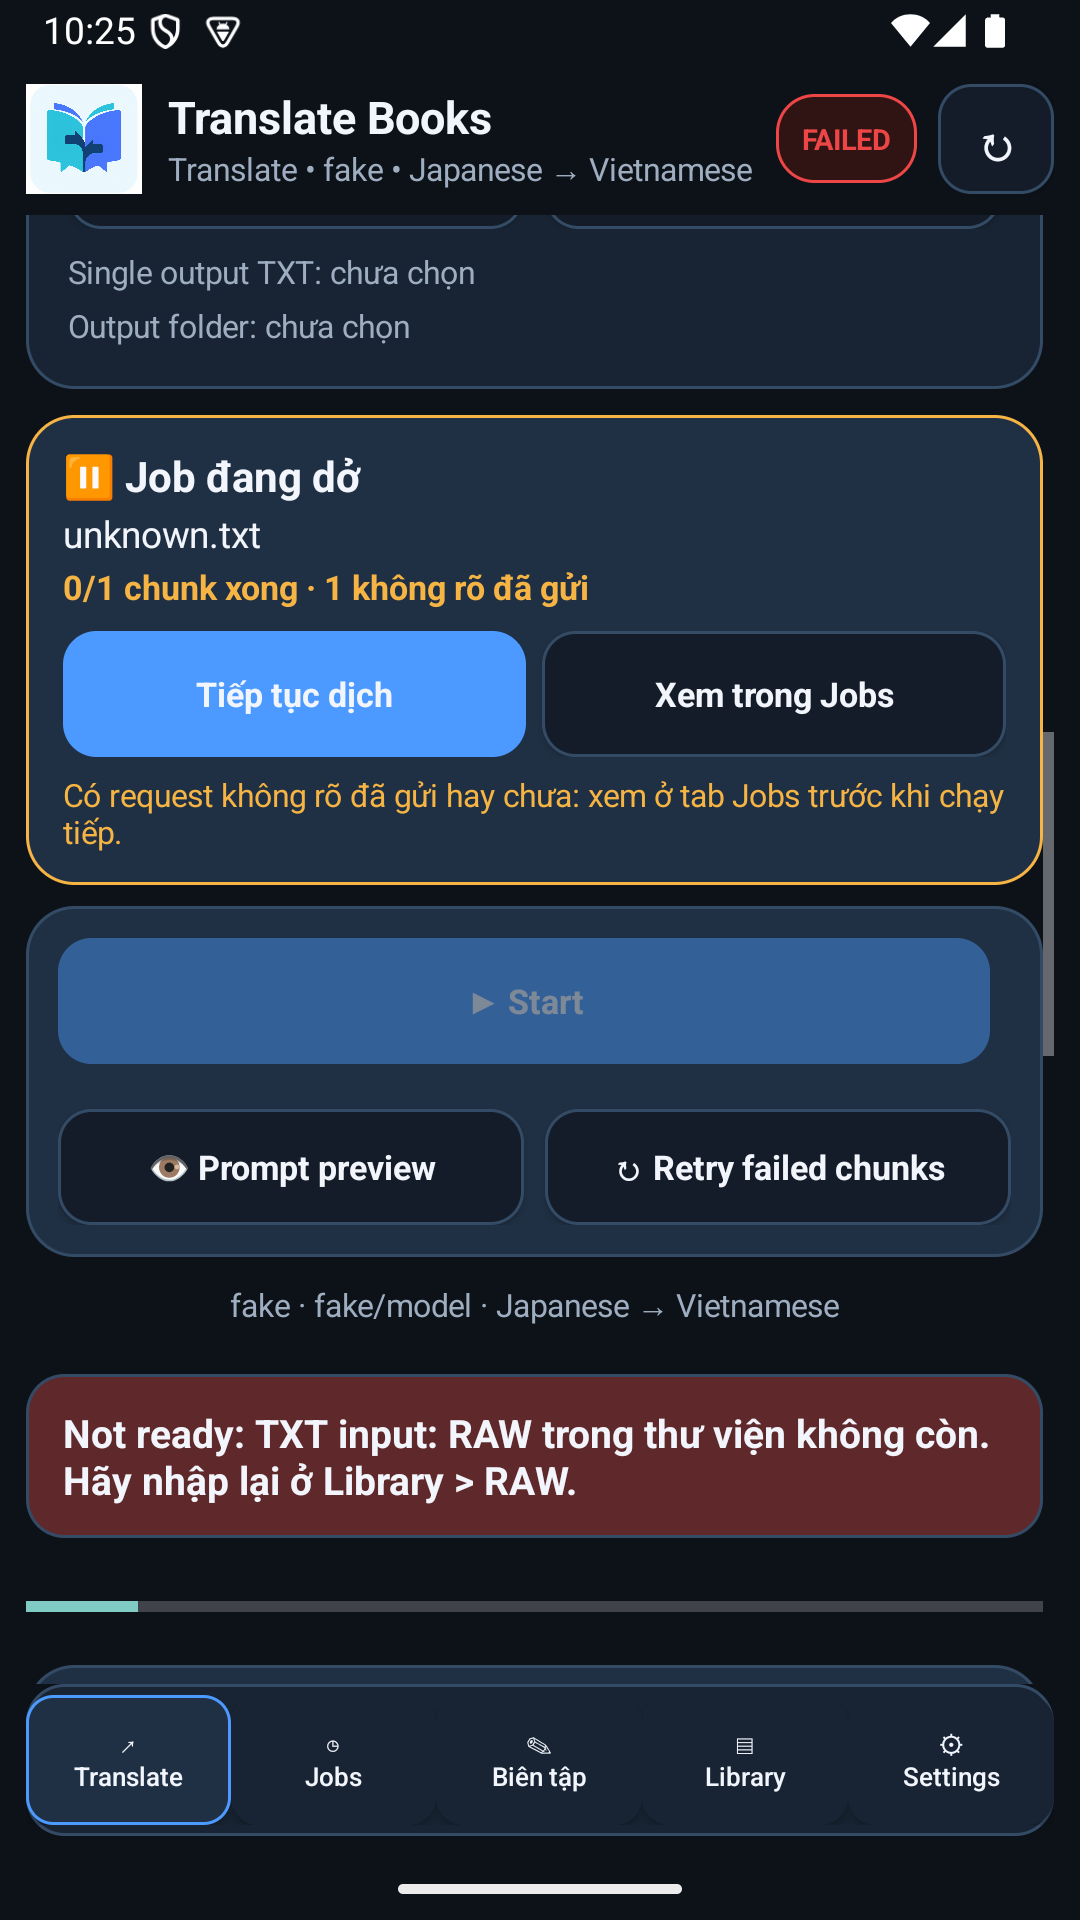
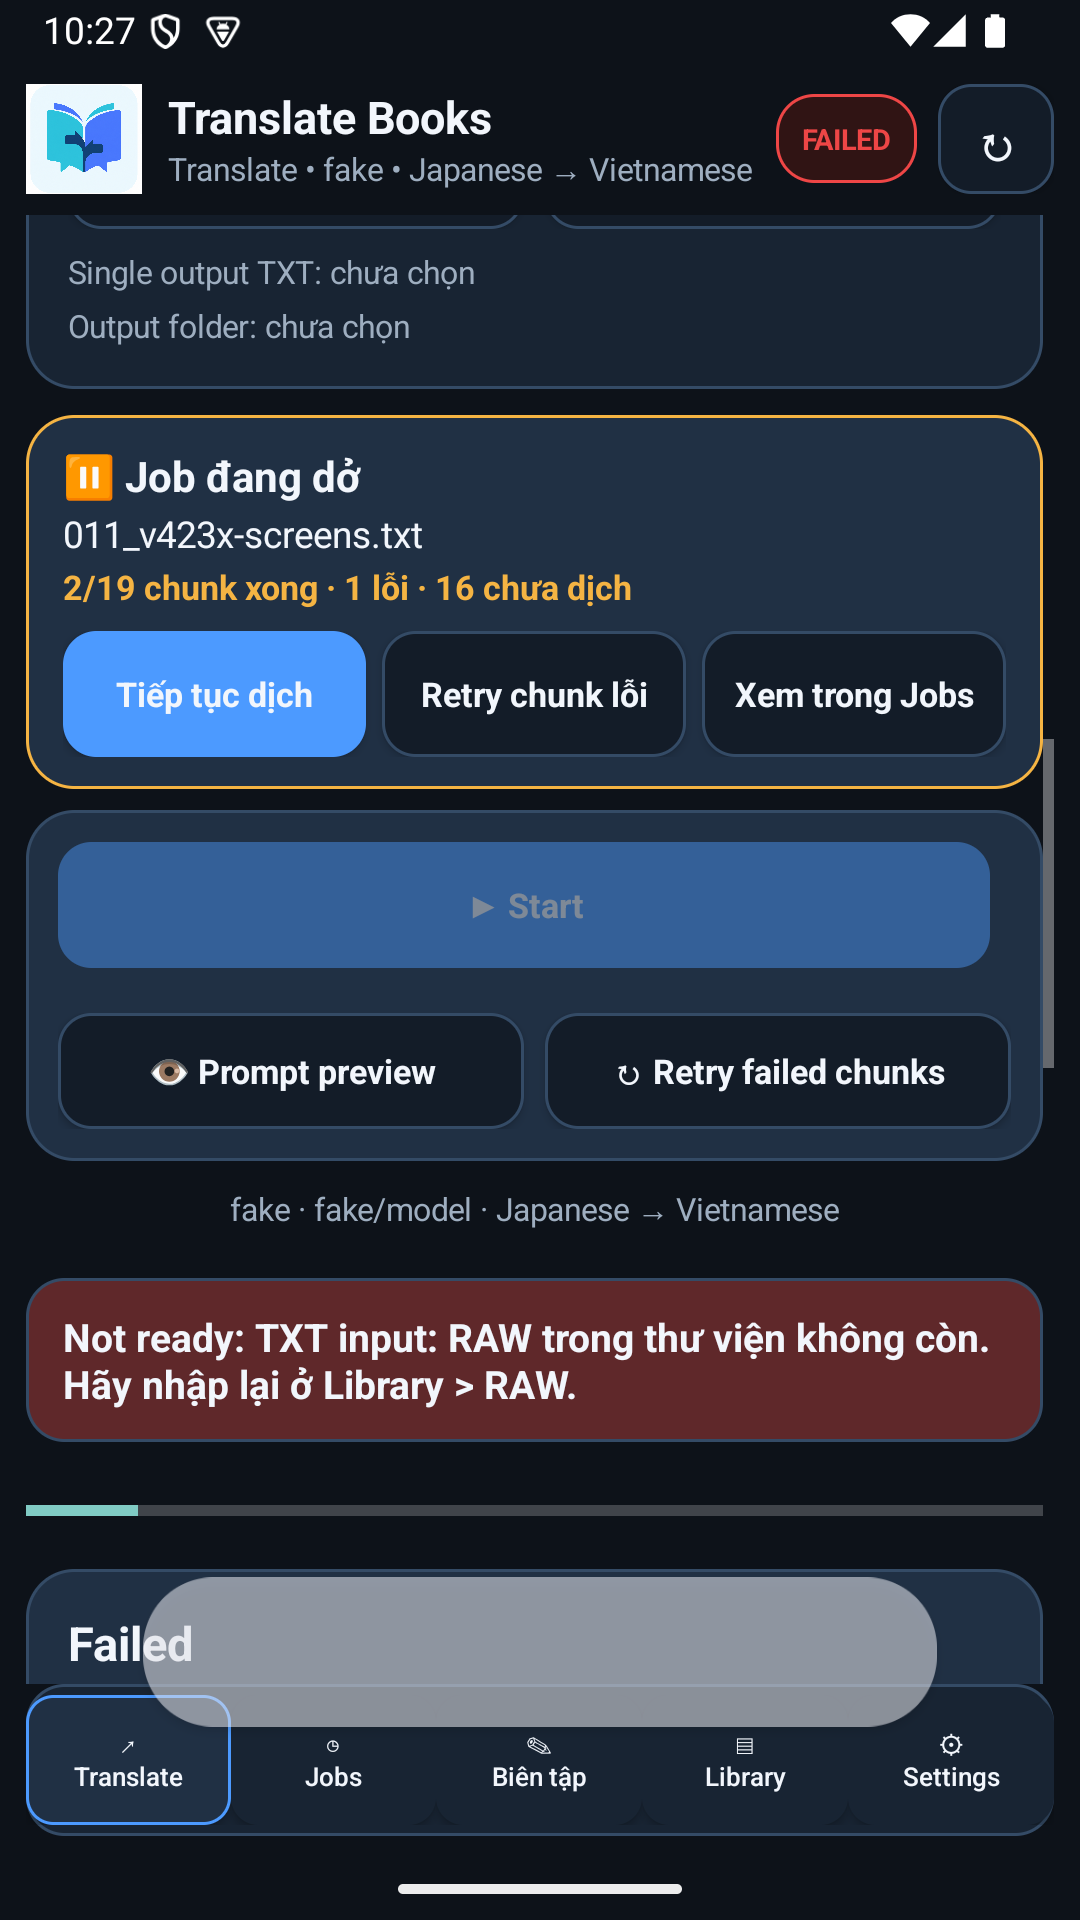
docs(release): v4.23 dev.6 resume fix regression, emulator QA 188 PASS / 16 SKIP / 0 FAIL and screenshots

diff --git a/artifacts/qa/v4.23-dev6-20261018/QA_REPORT.md b/artifacts/qa/v4.23-dev6-20261018/QA_REPORT.md
@@ -1,0 +1,44 @@
+# v4.23 — bản dev `4.23-dev.6` (code 281): sửa lỗi Resume sau Retry
+
+Ngày 2026-10-18, nhánh `feature/v4.23`. Yêu cầu: `docs/V423_RESUME_FIX_WORK_REQUEST.md` (owner chọn R1 mặc định). Provider giả, USD 0. Chỉ emulator-5554; điện thoại `15e84958` không bị chạm (vẫn `4.23-dev.5`).
+
+## 1. Bản dev
+| Mục | Giá trị |
+|---|---|
+| Bản | `4.23-dev.6` / code 281, event `build-20261018-221315`, source `f8de53a7` |
[1 lines of base64/hex data omitted]
+| Source ZIP | `D73558A6…5DF0D8`, trùng ZIP `git archive` của `f8de53a7` (hồi quy) |
+| APK test | `v423-dev6-test3-20261018`, `948E0755…6F2C0D` (chỉ khác mã androidTest; test hai lần đầu `6EE26140…`, `01B63E63…` đã thay) |
+
+## 2. Tái hiện (T1) trước khi sửa
+`T1` trên bản dev.5: job 15 chunk, chunk 2 lỗi xác thực, Retry. Kết quả FAIL: `done/error/pending = 2/0/13` (Retry chỉ chạy lại chunk 2, 13 chunk còn `pending`; job bị đánh `FAILED_INTEGRITY_CHECK` và app phát `done`). Log: `device/T1-FAIL-on-dev5.txt`.
+
+## 3. Sửa
+- **R1:** Retry chunk lỗi xong thì dịch tiếp phần còn lại trong cùng lượt (`translateJob` bỏ qua chunk xong; vẫn áp trần chi phí). Chỉ `finishJob` khi mọi chunk xong. Retry một chunk theo yêu cầu (`ACTION_RETRY_CHUNK`) mà còn chunk chưa dịch thì job `paused` với câu "Đã retry chunk n … còn m chunk chưa dịch". Lỗi giữa chừng ghi "— còn m chunk chưa dịch".
+- **R2:** job chỉ thiếu chunk (kiểm toàn vẹn chỉ có `INCOMPLETE_CHUNK`, kể cả `BLANK_OUTPUT` của chính chunk đó) thành `PAUSED`, không còn `FAILED_INTEGRITY_CHECK`.
+- **R3:** màn Dịch có thẻ **"Job đang dở"** (tên tệp, "x/y chunk xong · z lỗi · m chưa dịch", nút Tiếp tục dịch / Retry chunk lỗi / Xem trong Jobs; Tiếp tục tắt khi có request không rõ đã gửi). Bấm **Start** với tệp (hoặc chương trong tổ hợp) có job dở cùng `input_hash`: hỏi "Tiếp tục job cũ / Dịch lại từ đầu / Hủy". Tiếp tục: không tạo job mới, dịch phần còn lại bằng cấu hình riêng của job; chương khác chạy mới. "Resume" khi không có gì chạy không còn phát `paused`.
+- **R4:** mọi nhánh không làm gì (đã hoàn tất, không có chunk lỗi, Resume khi không chạy, lỗi, tạm dừng) hiện toast kèm đúng câu của dịch vụ, trên mọi tab; log `resume_decision` (job, action, branch, số chunk), không có key hay nội dung sách.
+- Rà họ lỗi: `finishJob` chỉ còn ở hai chỗ hợp lệ (mọi chunk xong); các chỗ phát `done` khi còn chunk: retry (đã sửa). Nhánh chia chunk khi vượt context: có T5.
+
+## 4. Hồi quy archive sạch (`f8de53a7`)
+Engine 742 / 1 SKIP; app debug, release, benchmark 569 mỗi biến thể / 5 SKIP, 0 FAIL; lint 0 lỗi / 65 cảnh báo; AndroidTest compile PASS. Test host mới `ResumePromptTest` (6): câu hỏi, chọn job theo hash (job không rõ đã gửi không được tự tiếp tục), JSON, kiểm toàn vẹn chỉ-thiếu-chunk. Editorial: `git diff 5d81061f -- editorial-engine 'app/.../Editorial*'` rỗng.
+
+## 5. QA thiết bị (emulator, provider giả)
+204 phát hiện / **188 PASS / 16 SKIP / 0 FAIL** / 0 INCOMPLETE (frozen 117/116/1, chunk 27/21/6, product 15/15/0, v4.22 13/6/7, v4.23 17/15/2, restart 15/15/0). Dữ liệu glossary/pronoun/settings giữ nguyên hash.
+
+`V423ResumeInstrumentedTest` (7, đều PASS):
+- **T1** Retry sau chunk 2 lỗi: mọi 15 chunk xong, đúng một lần mỗi chunk (số lần gọi = chunk + 1), job `COMPLETED`, mọi sự kiện `done` chỉ phát khi cả 15 chunk đã xong.
+- **T2** trần chi phí: job `paused` còn chunk, "Tiếp tục dịch" nhiều lượt cho tới hết.
+- **T3** tìm job dở theo hash (1 xong / 1 lỗi / 13 chưa dịch); tiếp tục: không tạo job mới, chỉ gửi chunk còn thiếu; dịch lại: job mới.
+- **T4** tổ hợp dừng ở chương 2: chạy lại với chương 2–3, chương 2 tiếp tục đúng job của nó, chương 3 là job mới, chương 1 không bị dịch lại.
+- **T5** chunk bị chia do vượt context rồi lỗi → Retry: đủ chunk con, đúng thứ tự chỉ số, job hoàn tất.
+- **T6** Resume khi không chạy: trạng thái `info`, không `paused`/`running`.
+- Ảnh: thẻ "Job đang dở", hộp hỏi khi Start, trạng thái sau Retry.
+
+## 6. Ảnh (3 ảnh trong `media/`, đã xem từng ảnh)
+`38-pending-job-card` ("011_v423x-screens.txt — 2/19 chunk xong · 1 lỗi · 16 chưa dịch" + 3 nút), `39-start-question` (hộp "Đã có job dở" với ba lựa chọn), `40-state-after-retry` ("Completed, 19/19 chunks", thẻ dở biến mất). Lượt chụp xóa các job dở cũ trên emulator (dữ liệu test) để thẻ hiện đúng job thử.
+
+## 7. Giới hạn
+- Thẻ chỉ hiện job dở mới nhất; job dở cũ còn nằm ở tab Jobs.
+- Dòng "Not ready: RAW trong thư viện không còn" ở ảnh là banner chuẩn bị của lượt thử (RAW thử đã xóa), không liên quan.
+- Chỉ trên emulator; hành vi thật trên điện thoại (thông báo, bấm nút) là NOT_MEASURED tới khi owner thử F1–F3.

diff --git a/WORKSPACE_SNAPSHOT.md b/WORKSPACE_SNAPSHOT.md
@@ -1,15 +1,15 @@
 # Workspace Snapshot
 
-- Updated: 2026-10-18 (+07:00): resume fix (R1-R4) implemented; T1 reproduced the owner's report on dev.5 (2 done / 0 error / 13 pending after Retry, evidence artifacts/qa/v4.23-dev6-20261018/device/T1-FAIL-on-dev5.txt); building the next dev.
+- Updated: 2026-10-18 (+07:00): 4.23-dev.6 (resume fix R1-R4) built, regression and emulator QA PASS (204 / 188 PASS / 16 SKIP / 0 FAIL), screenshots inspected; waiting for the owner to approve the phone install.
 - Current version: v4.23.0 in development (not released); contains unreleased v4.22 code; shipped 4.21.0 / code 271 (tag `v4.21.0`).
 - Current branch: `feature/v4.23` in worktree `D:\P5E-builds\wt-v4.23` (BASE `c8408207` on `feature/v4.22`).
 - Current commit: `e8cd9c37` is the baseline before this snapshot commit (docs only). Confirm actual HEAD when resuming.
-- Current build: 4.23-dev.5 / code 280 (event build-20261018-212435, source f887b2b3, APK SHA-256 56E300A454460E131032E2EA20199F055777B43ADB7359A13A31E0083DB7E5EB); emulator-5554 only; phone 15e84958 still 4.23-dev.2 / code 277.
+- Current build: 4.23-dev.6 / code 281 (event build-20261018-221315, source f8de53a7, APK SHA-256 CF7318BE5BEB0163BFAA465A120F01AAD71108AB555ED596579A321FF520E16B); emulator-5554 only; phone 15e84958 still 4.23-dev.5 / code 280.
 - Current phase: UX work request complete through QA; stopped for the owner's install approval.
 - Completed tasks: steps 01-04; L1, L2, L3, L4; dev.1 and dev.2 builds, clean-archive regressions, device QA and reports (`artifacts/qa/v4.23-dev1-20261018`, `v4.23-dev2-20261018`).
 - Pending tasks: U1 FilePickerModel/FilePickerSheet/SelectedFilesSlot; U2 new combo screen and RAW shortcut; U3 Translate source and the clipping/setItems family sweep; clean-archive regression; `4.23-dev.3` (code >= 278) and emulator QA with 8 screenshots; owner install approval; trial D1-D2, E1-E5, D4-D7; release decision (v4.22 and v4.23 order).
-- Known bugs/limits: as v4.22; owner-reported, not yet analysed: Resume after a failed-then-retried chunk gives no response (owner says it is older than v4.23); D7 not reported (NOT_MEASURED); a job report prints raw settings JSON when it cannot parse it.
+- Known bugs/limits: as v4.22; resume-after-retry fixed in dev.6 (owner trial F1-F3 pending); D7 not reported (NOT_MEASURED).
 - Regression status: clean archive `79fbc979`: engine 742 / 1 SKIP, app debug, release, benchmark 547 each / 5 SKIP, 0 FAIL, lint 0 errors / 64 warnings, AndroidTest compile PASS; device 196 / 180 PASS / 16 SKIP / 0 FAIL. Editorial boundary diff empty; five Editorial-named tests changed by one number.
 - Semantic progress: unchanged.
 - Spend: USD 0; no provider call. Phone 15e84958: owner approved the install in chat 2026-10-18; backup before install in D:/App Translate Books/App Translate Books-device-backups/v4.23-dev2-code277/20261018-213422 (DB sha256 e3820252...107134 matches phone and archive); 4.23-dev.5 / code 280 installed with install-validated.ps1, first launch without crash.
-- Next action: build 4.23-dev (code 281), clean-archive regression, device QA with the new V423Resume tests, screenshots, owner report with F1-F3.
+- Next action: ask the owner to approve installing 4.23-dev.6 on phone 15e84958 (back up first with run-as from 4.23-dev.5) and to try F1-F3.
